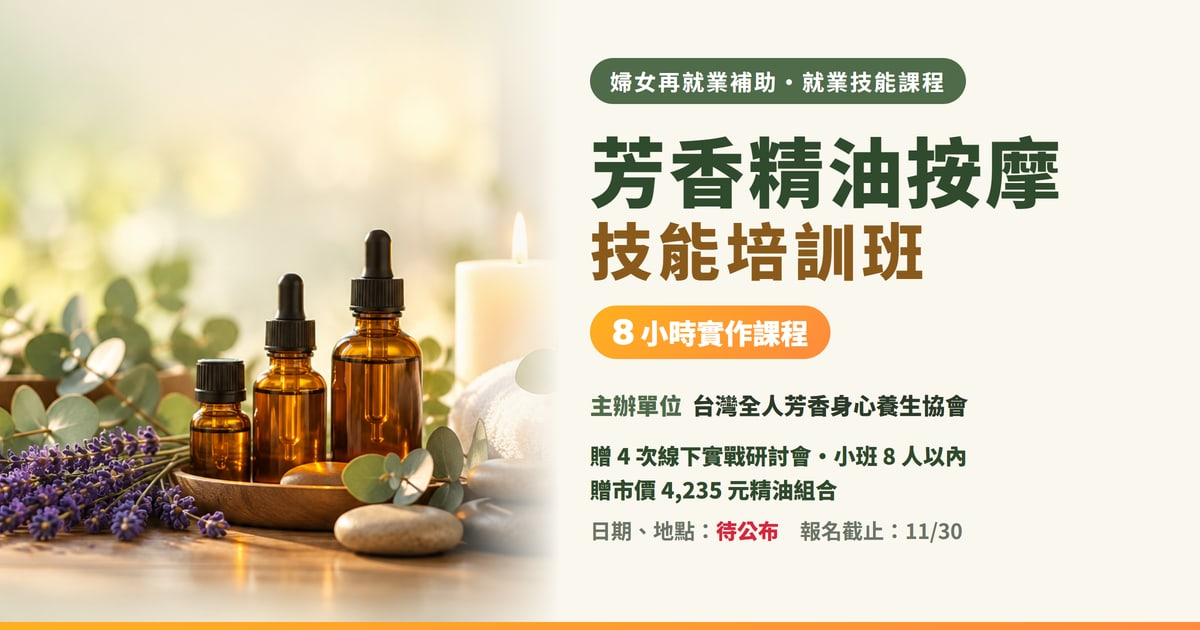
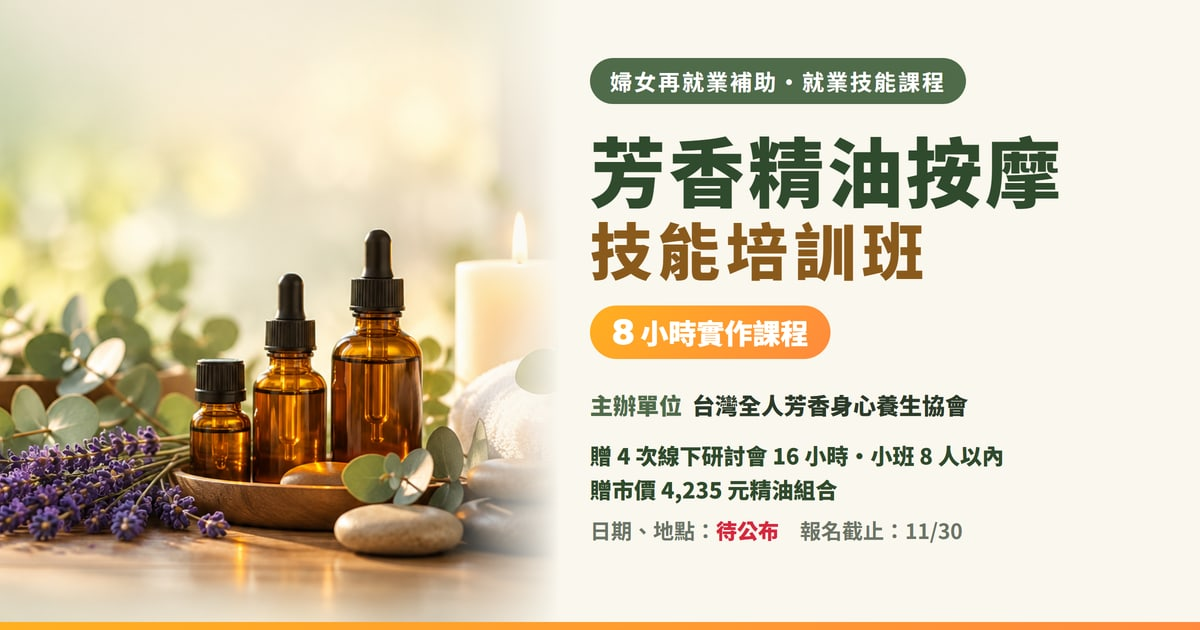
芳香研討會改「贈送 4 次線下研討會 16 小時」＋海報 og 重出（T624）
- 報名頁與課程頁「實戰研討會」欄值照老闆原字
- description／og:description／JSON-LD description、海報 alt 同步
- 海報與 og 標籤改「贈 4 次線下研討會 16 小時」，檔名不變

Changed region(s): [[0.5858, 0.6937, 0.8325, 0.754]]

diff --git a/course-pro-aroma.html b/course-pro-aroma.html
@@ -18,7 +18,7 @@
 <meta charset="UTF-8">
 <meta name="viewport" content="width=device-width, initial-scale=1.0">
 <title>芳香精油按摩 技能培訓班・頭部舒壓、刮痧手技、精油手作｜強腦力 SkyBraining</title>
-<meta name="description" content="芳香精油按摩技能培訓班：課程共 8 小時，教芳香頭部舒壓與精油刮痧手技、頭頸肩深度釋壓與淋巴按摩、精油手作、芳香耳燭；另贈 4 次線下實戰研討會與市價 4,235 元精油組合。每週一堂，分假日班與平日班，小班制 8 人以內。台灣全人芳香身心養生協會主辦，婦女再就業補助線上報名。">
+<meta name="description" content="芳香精油按摩技能培訓班：課程共 8 小時，教芳香頭部舒壓與精油刮痧手技、頭頸肩深度釋壓與淋巴按摩、精油手作、芳香耳燭；另贈 4 次線下研討會 16 小時與市價 4,235 元精油組合。每週一堂，分假日班與平日班，小班制 8 人以內。台灣全人芳香身心養生協會主辦，婦女再就業補助線上報名。">
 <link rel="preconnect" href="https://fonts.googleapis.com">
 <link rel="preconnect" href="https://fonts.gstatic.com" crossorigin>
 <link href="https://fonts.googleapis.com/css2?family=Noto+Sans+TC:wght@300;400;500;700;900&family=Baloo+2:wght@500;600;700;800&display=swap" rel="stylesheet">
@@ -179,7 +179,7 @@
 <meta property="og:type" content="website">
 <meta property="og:site_name" content="強腦力 SkyBraining">
 <meta property="og:title" content="芳香精油按摩 技能培訓班・頭部舒壓、刮痧手技、精油手作｜強腦力 SkyBraining">
-<meta property="og:description" content="芳香精油按摩技能培訓班：課程共 8 小時，教芳香頭部舒壓與精油刮痧手技、頭頸肩深度釋壓與淋巴按摩、精油手作、芳香耳燭；另贈 4 次線下實戰研討會與市價 4,235 元精油組合。每週一堂，分假日班與平日班，小班制 8 人以內。台灣全人芳香身心養生協會主辦，婦女再就業補助線上報名。">
+<meta property="og:description" content="芳香精油按摩技能培訓班：課程共 8 小時，教芳香頭部舒壓與精油刮痧手技、頭頸肩深度釋壓與淋巴按摩、精油手作、芳香耳燭；另贈 4 次線下研討會 16 小時與市價 4,235 元精油組合。每週一堂，分假日班與平日班，小班制 8 人以內。台灣全人芳香身心養生協會主辦，婦女再就業補助線上報名。">
 <meta property="og:url" content="https://skybraining.com/course-pro-aroma.html">
 <meta property="og:image" content="https://skybraining.com/og-funv-aroma.jpg?v=2">
 <meta property="og:image:width" content="1200">
@@ -189,7 +189,7 @@
 <meta name="twitter:card" content="summary_large_image">
 <meta name="twitter:image" content="https://skybraining.com/og-funv-aroma.jpg?v=2">
 <script type="application/ld+json">
-{"@context":"https://schema.org","@type":"Course","name":"芳香精油按摩技能培訓班","description":"芳香精油按摩技能培訓班：課程共 8 小時，教芳香頭部舒壓與精油刮痧手技、頭頸肩深度釋壓與淋巴按摩、精油手作、芳香耳燭；另贈 4 次線下實戰研討會與市價 4,235 元精油組合。每週一堂，分假日班與平日班，小班制 8 人以內。台灣全人芳香身心養生協會主辦，婦女再就業補助線上報名。","url":"https://skybraining.com/course-pro-aroma.html","image":"https://skybraining.com/img-funv-aroma-poster.jpg","inLanguage":"zh-Hant","provider":{"@type":"Organization","name":"台灣全人芳香身心養生協會"},"hasCourseInstance":{"@type":"CourseInstance","courseMode":"Onsite","courseWorkload":"PT8H"},"teaches":["芳香頭部舒壓","精油刮痧手技","頭頸肩深度釋壓","淋巴按摩","精油手作","芳香耳燭"],"offers":{"@type":"Offer","price":"20000","priceCurrency":"TWD","category":"Paid","url":"https://skybraining.com/funv-apply-aroma.html"}}
+{"@context":"https://schema.org","@type":"Course","name":"芳香精油按摩技能培訓班","description":"芳香精油按摩技能培訓班：課程共 8 小時，教芳香頭部舒壓與精油刮痧手技、頭頸肩深度釋壓與淋巴按摩、精油手作、芳香耳燭；另贈 4 次線下研討會 16 小時與市價 4,235 元精油組合。每週一堂，分假日班與平日班，小班制 8 人以內。台灣全人芳香身心養生協會主辦，婦女再就業補助線上報名。","url":"https://skybraining.com/course-pro-aroma.html","image":"https://skybraining.com/img-funv-aroma-poster.jpg","inLanguage":"zh-Hant","provider":{"@type":"Organization","name":"台灣全人芳香身心養生協會"},"hasCourseInstance":{"@type":"CourseInstance","courseMode":"Onsite","courseWorkload":"PT8H"},"teaches":["芳香頭部舒壓","精油刮痧手技","頭頸肩深度釋壓","淋巴按摩","精油手作","芳香耳燭"],"offers":{"@type":"Offer","price":"20000","priceCurrency":"TWD","category":"Paid","url":"https://skybraining.com/funv-apply-aroma.html"}}
 </script>
 </head>
 <body>
@@ -228,7 +228,7 @@
         </div>
         <div class="c-microtrust">8 小時・贈 4 次實戰研討會・小班 8 人以內・<b style="color:#a3480f;">日期、地點：待公布・報名截止：11/30</b></div>
       </div>
-      <figure class="c-poster reveal"><img src="img-funv-aroma-poster.jpg" width="1122" height="1402" fetchpriority="high" decoding="async" alt="芳香精油按摩 技能培訓班 課程海報：課程 8 小時，贈 4 次線下實戰研討會與市價 4,235 元精油組合，小班 8 人以內，台灣全人芳香身心養生協會主辦"></figure>
+      <figure class="c-poster reveal"><img src="img-funv-aroma-poster.jpg" width="1122" height="1402" fetchpriority="high" decoding="async" alt="芳香精油按摩 技能培訓班 課程海報：課程 8 小時，贈 4 次線下研討會 16 小時與市價 4,235 元精油組合，小班 8 人以內，台灣全人芳香身心養生協會主辦"></figure>
     </div>
   </div>
 </header>
@@ -241,7 +241,7 @@
       <dl>
         <dt>課程名稱</dt><dd>芳香精油按摩 技能培訓班</dd>
         <dt>授課講師</dt><dd>協會講師群</dd>
-        <dt>實戰研討會</dt><dd>贈送 4 次線下實戰研討會</dd>
+        <dt>實戰研討會</dt><dd>贈送 4 次線下研討會 16 小時</dd>
         <dt>上課日期</dt><dd><b style="color:#d7263d;">待公布</b>（每週一堂，分假日班與平日班）</dd>
         <dt>上課時段</dt><dd><b style="color:#d7263d;">待公布</b></dd>
         <dt>上課地點</dt><dd><b style="color:#d7263d;">待公布</b></dd>

diff --git a/funv-apply-aroma.html b/funv-apply-aroma.html
@@ -17,7 +17,7 @@
 <meta charset="UTF-8">
 <meta name="viewport" content="width=device-width, initial-scale=1">
 <title>台灣全人芳香身心養生協會｜芳香精油按摩技能培訓班 報名表</title>
-<meta name="description" content="婦女再就業補助的就業技能課程線上報名表：離開公司職場滿 180 天、目前沒有公司勞保的女性可以申請，本頁報名台灣全人芳香身心養生協會主辦的「芳香精油按摩 技能培訓班」，課程共 8 小時，另贈 4 次線下實戰研討會與市價 4,235 元精油組合，小班制 8 人以內；日期、地點待公布，報名截止 11/30。填完表單會有專人打電話跟你確認。">
+<meta name="description" content="婦女再就業補助的就業技能課程線上報名表：離開公司職場滿 180 天、目前沒有公司勞保的女性可以申請，本頁報名台灣全人芳香身心養生協會主辦的「芳香精油按摩 技能培訓班」，課程共 8 小時，另贈 4 次線下研討會 16 小時與市價 4,235 元精油組合，小班制 8 人以內；日期、地點待公布，報名截止 11/30。填完表單會有專人打電話跟你確認。">
 <meta name="author" content="台灣全人芳香身心養生協會">
 <meta name="robots" content="noindex,nofollow">
 <meta property="og:type" content="website">
@@ -189,7 +189,7 @@ fieldset.f legend{padding:0;}
   <!-- 第 1 步：資格與準備 -->
   <section class="step on" id="step1" data-title="資格與準備">
     <figure class="poster">
-      <img src="img-funv-aroma-poster.jpg" alt="芳香精油按摩 技能培訓班 課程海報：課程 8 小時，贈 4 次線下實戰研討會與市價 4,235 元精油組合，小班 8 人以內，台灣全人芳香身心養生協會主辦，日期地點待公布，報名截止 11/30" width="1122" height="1402" loading="eager" decoding="async">
+      <img src="img-funv-aroma-poster.jpg" alt="芳香精油按摩 技能培訓班 課程海報：課程 8 小時，贈 4 次線下研討會 16 小時與市價 4,235 元精油組合，小班 8 人以內，台灣全人芳香身心養生協會主辦，日期地點待公布，報名截止 11/30" width="1122" height="1402" loading="eager" decoding="async">
     </figure>
     <p class="tbd" role="note">日期、地點：待公布　報名截止：11/30</p>
 
@@ -198,7 +198,7 @@ fieldset.f legend{padding:0;}
       <div class="note">
         <p><b>課程名稱：</b>芳香精油按摩 <span style="white-space:nowrap;">技能培訓班</span></p>
         <p><b>授課講師：</b>協會講師群</p>
-        <p><b>實戰研討會：</b>贈送 4 次線下<span style="white-space:nowrap;">實戰研討會</span></p>
+        <p><b>實戰研討會：</b>贈送 4 次線下<span style="white-space:nowrap;">研討會 16 小時</span></p>
         <p><b>上課日期：</b><b class="red">待公布</b>（每週一堂，<span style="white-space:nowrap;">分假日班與平日班</span>）</p>
         <p><b>上課時段：</b><b class="red">待公布</b></p>
         <p><b>上課地點：</b><b class="red">待公布</b></p>
